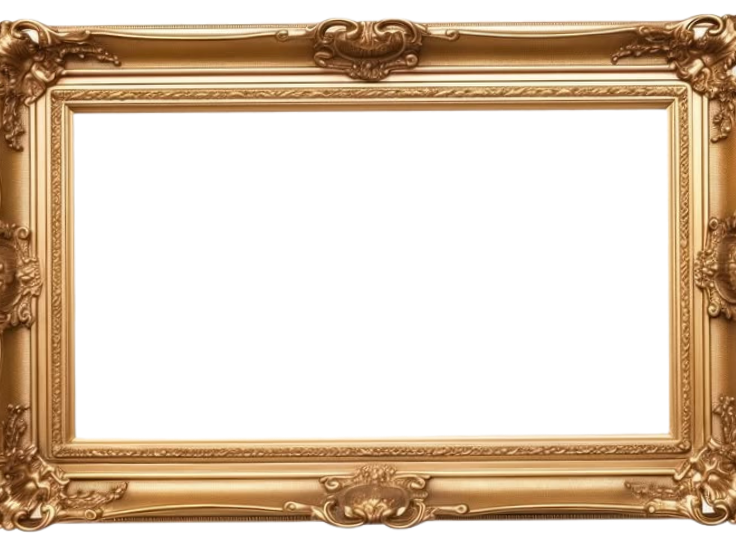
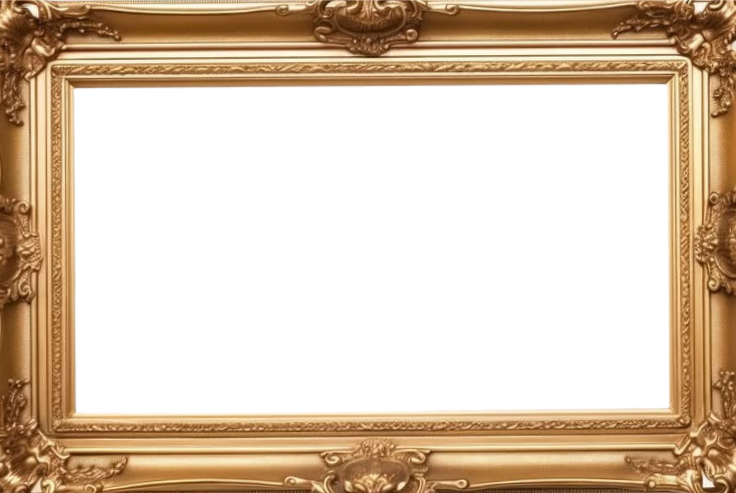
modification de create-image.php et editor.js, j'ai ajouté les verification de parametres de l'overlay + les params fix de chaque overlay

diff --git a/projects/camagru/public/js/editor.js b/projects/camagru/public/js/editor.js
@@ -11,6 +11,42 @@ const messageReponse = document.querySelector('#msg-capture');
 let selectedOverlay = null;
 let imageUrl = null;
 
+//Positionement de overlay
+
+const overlayParam = {
+	'cat.png': {
+		x: 150,
+		y: 300,
+		width: 200,
+		height: 150
+	},
+	'glasses.png': {
+		x: 200,
+		y: 170,
+		width: 200,
+		height: 120
+	},
+	'frame.png': {
+		x: 0,
+		y: 0,
+		width: 600,
+		height: 450		
+	},
+	'stars.png': {
+		x: 0,
+		y: 0,
+		width: 600,
+		height: 450		
+	},
+	'celebration.png': {
+		x: 0,
+		y: 0,
+		width: 600,
+		height: 450		
+	}
+}
+
+
 function updateButtonCapture() 
 {
 	const hasImg = imageUrl !== null;
@@ -40,8 +76,14 @@ overlays.forEach((overlay) => {
 		});
 		overlay.classList.add('selected');//on ajoute le class dans overlay sélectionné
 		selectedOverlay = overlay.dataset.overlay;//On prends le nom de fichier		
+		const params =overlayParam[selectedOverlay];
 		displayImg.src = `/asset/image-def/${selectedOverlay}`;//Add path of img in html element
 		displayImg.hidden = false; //Toggle hidden
+		displayImg.style.left = `${params.x}px`;
+		displayImg.style.top = `${params.y}px`;
+		displayImg.style.width = `${params.width}px`;
+		displayImg.style.height = `${params.height}px`;
+		previewText.hidden = true;
 		updateButtonCapture();
 	});
 });
@@ -74,9 +116,14 @@ captureButton.addEventListener('click', async () => {
 		return;
 
 	const formData = new FormData();
+	const param = overlayParam[selectedOverlay];
 
 	formData.append('image', file);
 	formData.append('overlay', selectedOverlay);
+	formData.append('x', param.x);
+	formData.append('y', param.y);
+	formData.append('width', param.width);
+	formData.append('height', param.height);
 
 	try {
 		const res = await fetch('/image/create', {
@@ -99,3 +146,4 @@ captureButton.addEventListener('click', async () => {
 	}
 
 });
+

diff --git a/projects/camagru/public/css/editor.css b/projects/camagru/public/css/editor.css
@@ -2,12 +2,12 @@
 	outline: 2px solid rgb(35, 9, 119);
 }
 
-#captureButton:disabled {
+#capture-button:disabled {
 	opacity: 0.4;
 	cursor: not-allowed;
 }
 
-#captureButton:not(:disabled) {
+#capture-button:not(:disabled) {
 	opacity: 1;
 	cursor: pointer;
 }

diff --git a/projects/camagru/src/image/create_image.php b/projects/camagru/src/image/create_image.php
@@ -2,17 +2,69 @@
 
 header('Content-Type: application/json');
 
-if (!isset($_FILES['image']) || !isset($_POST['overlay']))
+if (
+	!isset($_FILES['image']) ||
+	!isset($_POST['overlay']) ||
+	!isset($_POST['x']) ||
+	!isset($_POST['y']) ||
+	!isset($_POST['width']) ||
+	!isset($_POST['height'])
+	)
 {
 	echo json_encode([
 		'success' => false,
-		'message' => 'Image ou overlay absent'
+		'message' => 'Info manquants'
 	]);
 	exit;
 }
 
 $file = $_FILES['image'];
 $overlay = $_POST['overlay'];
+$x = $_POST['x'];
+$y = $_POST['y'];
+$width = $_POST['width'];
+$height = $_POST['height'];
+
+//Verification de parametres overlay
+//Verifier est ce que on a reçu que les chiffres
+if (
+	filter_var($x, FILTER_VALIDATE_INT) === false ||
+	filter_var($y, FILTER_VALIDATE_INT) === false ||
+	filter_var($width, FILTER_VALIDATE_INT) === false ||
+	filter_var($height, FILTER_VALIDATE_INT) === false
+)
+{
+	echo json_encode([
+		'success' => false,
+		'message' => 'Parametres de overlay invalides.'
+	]);
+	exit;
+}
+
+//Convertir de string vers int
+$x = (int) $x;
+$y = (int) $y;
+$width = (int) $width;
+$height = (int) $height;
+
+
+//Verifier les domensions
+if (
+	$x < 0 ||
+	$y < 0 ||
+	$width <= 0 ||
+	$height <= 0 ||
+	$x + $width > 600 ||
+	$y + $height > 450
+	
+)
+{
+	echo json_encode([
+		'success' => false,
+		'message' => 'Position ou taille de overlay invalide.'
+	]);
+	exit;
+}
 
 if ($file['error'] !== UPLOAD_ERR_OK)
 {
@@ -60,7 +112,6 @@ if ($infoImg['mime']  !== 'image/jpeg' && $infoImg['mime']  !== 'image/png')
 //Verification de overlay
 $overlayAllowed = [
 	'cat.png',
-	'crown.png',
 	'glasses.png',
 	'frame.png',
 	'stars.png',
